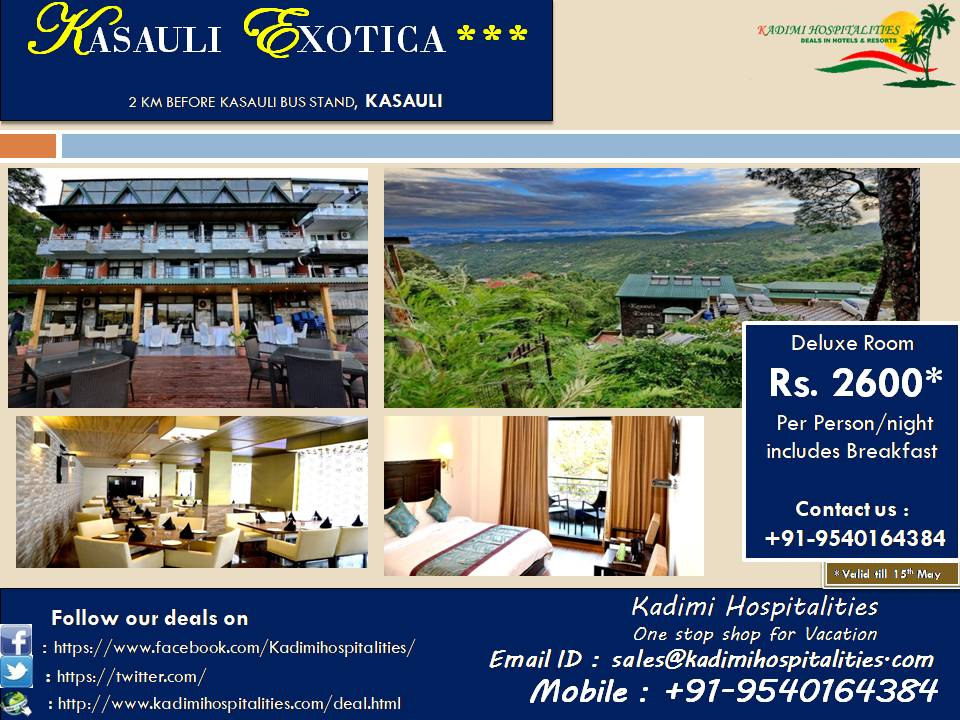
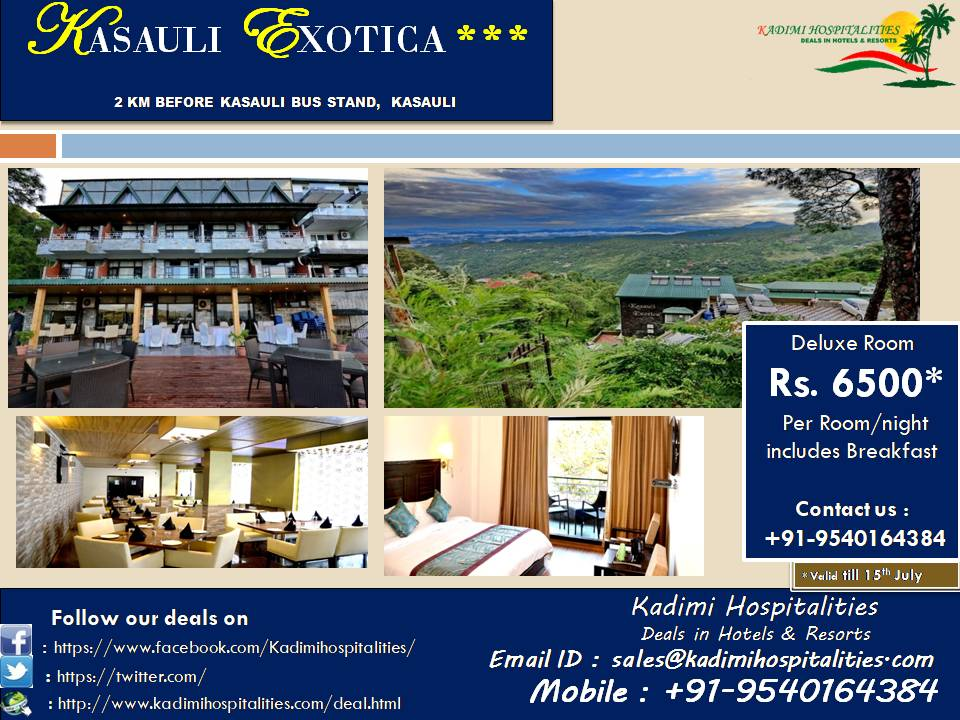
added mauritius

diff --git a/mauritius.html b/mauritius.html
@@ -105,8 +105,6 @@
 	<div class="container">
 		<h2 class="page-header">
 			MAURITIUS HOTELS
-			<br>
-			COMING SOON!!!
 		</h2>
 		<ol class="breadcrumb">
 			<li><a href="index.html">Home</a></li>
@@ -114,42 +112,101 @@
 		</ol>
 	</div> <!-- /.container -->
 </section> <!-- /.section-background -->
-<!--
-	<div class="container">
+<div class="container">
 	<div class="container">
   <div class="row">
     <nav class="col-sm-3" id="myScrollspy">
       <ul class="nav nav-pills nav-stacked sectionsLeft">
-        <li class="active"><a href="#section1">Tijara Fort Palace</a></li>
-        
+        <li class="active"><a href="#section1">Le Meridien</a></li>
+        <li><a href="#section2">Lux Belle Mare</a></li>
+        <li><a href="#section3">Shanti Maurice Resort & Spa</a></li>
+		<li><a href="#section4">The Oberoi</a></li>
       </ul>
     </nav>
     <div class="col-sm-9">
       <div id="section1" class="sections">    
-        <h3>TIJARA FORT PALACE &nbsp;<span class="red"><span class="glyphicon glyphicon-star"><span class="glyphicon glyphicon-star"></span><span class="glyphicon glyphicon-star"></span><span class="glyphicon glyphicon-star"></span></span></h3>
+        <h3>Le Meridien &nbsp;<span class="red"><span class="glyphicon glyphicon-star"></span><span class="glyphicon glyphicon-star"></span><span class="glyphicon glyphicon-star"></span><span class="glyphicon glyphicon-star"></span><span class="glyphicon glyphicon-star"></span></span></h3>
 		<span class = "sectionsSpan">
-		<img src="alwar/images/tijara.jpg" alt="" title="Tijara Fort Palace" />
+		<img src="mauritius/images/meridien.jpg" alt="" title="Le Meridien" />
 		<span class="sectionDetails">
 		<span class="sectionFeatures">
 		 <p class="bold black">ADDRESS - </p>
-		 <p>Hasanpurmafi, Tijara, Alwar, Rajasthan</p>
+		 <p>Village Hall Lane, Pointe aux Biches, Mauritius</p>
 		</span>
 		 <br><br>
 		 <p>
-		<a href="alwar/tijara.html" class="big">
+		<a href="contact.html" class="big">
        	ON REQUEST
 		</a>
 		</p>
 		</span>
 		</span>
       </div>
-	   
-    
+	   <div id="section2" class="sections">    
+        <h3>Lux Belle Mare &nbsp;<span class="red"><span class="glyphicon glyphicon-star"></span><span class="glyphicon glyphicon-star"></span><span class="glyphicon glyphicon-star"></span><span class="glyphicon glyphicon-star"></span><span class="glyphicon glyphicon-star"></span><span class="glyphicon glyphicon-star"></span></span></h3>
+		<span class = "sectionsSpan">
+		<img src="mauritius/images/lux.jpg" alt="" title="Lux Belle Mare" />
+		<span class="sectionDetails">
+		<span class="sectionFeatures">
+		 <p class="bold black">ADDRESS - </p>
+		 <p>Coastal Road, 742CU001, Mauritius</p>
+		</span>
+		 <br><br>
+		 <p>
+		<a href="contact.html" class="big">
+       	ON REQUEST
+		</a>
+		</p>
+		</span>
+		</span>
+      </div>
+    <div id="section3" class="sections">    
+        <h3>Shanti Maurice Resort & Spa&nbsp;<span class="red"><span class="glyphicon glyphicon-star"></span><span class="glyphicon glyphicon-star"></span><span class="glyphicon glyphicon-star"></span><span class="glyphicon glyphicon-star"></span><span class="glyphicon glyphicon-star"></span></span></h3>
+		<span class = "sectionsSpan">
+		<img src="mauritius/images/shanti.jpg" alt="" title="Shanti Maurice Resort & Spa" />
+		<span class="sectionDetails">
+		<span class="sectionFeatures">
+		 <p class="bold black">ADDRESS</p>
+		 <p> - Chemin-Grenier, B10 Chemin Grenier Road, Chemin Grenier 0, Mauritius</p>
+		</span>
+		 <br><br>
+		 <p>
+		<a href="contact.html" class="big">
+       	ON REQUEST
+		</a>
+		</p>
+		</span>
+		</span>
+      </div>
+	  <div id="section4" class="sections">    
+        <h3>The Oberoi &nbsp;<span class="red"><span class="glyphicon glyphicon-star"></span><span class="glyphicon glyphicon-star"></span><span class="glyphicon glyphicon-star"></span><span class="glyphicon glyphicon-star"></span><span class="glyphicon glyphicon-star"></span></span></h3>
+		<span class = "sectionsSpan">
+		<img src="mauritius/images/oberoi.jpg" alt="" title="The Oberoi" />
+		<span class="sectionDetails">
+		<span class="sectionFeatures">
+		 <p class="bold black">ADDRESS - </p>
+		 <p>The Oberoi, Turtle Bay, Pointe aux Piments 111CU001, Mauritius</p>
+		</span>
+		 <br><br>
+		 <p>
+		<a href="contact.html" class="big">
+       	ON REQUEST
+		</a>
+		</p>
+		</span>
+		</span>
+      </div>
+	  
+	 
     </div>
   </div>
 </div>
-	</div>!-->
+	</div>
 
+       </div>
+  </div>
+</div>
+	</div>
 
 <ul class="social-icon">
 	<li><a href="https://twitter.com/Kadimi123"><i class="ion-social-twitter"></i></a></li>

diff --git a/bangkok.html b/bangkok.html
@@ -120,7 +120,7 @@
       <ul class="nav nav-pills nav-stacked sectionsLeft">
         <li class="active"><a href="#section1">Hotel Ambassador</a></li>
         <li><a href="#section2">Holiday inn Express</a></li>
-        <li><a href="#section3">Leaf fenix</a></li>
+        <li><a href="#section3">Le fenix</a></li>
 		<li><a href="#section4">Hotel Ramada</a></li>
       </ul>
     </nav>
@@ -162,13 +162,13 @@
 		</span>
       </div>
     <div id="section3" class="sections">    
-        <h3>Leaf fenix&nbsp;<span class="red"><span class="glyphicon glyphicon-star"></span><span class="glyphicon glyphicon-star"></span><span class="glyphicon glyphicon-star"></span><span class="glyphicon glyphicon-star"></span></span></h3>
+        <h3>Le fenix&nbsp;<span class="red"><span class="glyphicon glyphicon-star"></span><span class="glyphicon glyphicon-star"></span><span class="glyphicon glyphicon-star"></span><span class="glyphicon glyphicon-star"></span></span></h3>
 		<span class = "sectionsSpan">
-		<img src="bangkok/images/fenix.jpg" alt="" title="Leaf fenix" />
+		<img src="bangkok/images/fenix.jpg" alt="" title="Le fenix" />
 		<span class="sectionDetails">
 		<span class="sectionFeatures">
-		 <p class="bold black">ADDRESS - </p>
-		 <p> 33/33 Soi Sukhumvit 11, Khwaeng Khlong Toei Nuea, Khet Watthana, Krung Thep Maha Nakhon 10110, Thailand</p>
+		 <p class="bold black">ADDRESS</p>
+		 <p> - 33/33 Soi Sukhumvit 11, Khwaeng Khlong Toei Nuea, Khet Watthana, Krung Thep Maha Nakhon 10110, Thailand</p>
 		</span>
 		 <br><br>
 		 <p>

diff --git a/deal.html b/deal.html
@@ -115,7 +115,7 @@
 	<section class="contacts section-wrapper">
 		<div class="container">
 			<div class="row">
-				<img class="imgSize" src="assets/images/deals/Treebo Whispering Meadows Flyer.jpg">
+				<img class="imgSize" src="assets/images/deals/Kasauli Exotica flyer.jpg">
 				<!--<div style="color:black;font-size:20px;">COMING SOON!!!</div>-->
 			</div> <!-- /.row -->
 		</div> <!-- /.container -->

diff --git a/singapore.html b/singapore.html
@@ -187,7 +187,7 @@
 		<span class="sectionDetails">
 		<span class="sectionFeatures">
 		 <p class="bold black">ADDRESS - </p>
-		 <p>Next to Cutbona Jetty Velim, Goa, 403723</p>
+		 <p>48 Bencoolen Street, Bencoolen, 189627 Singapore, Singapore</p>
 		</span>
 		 <br><br>
 		 <p>
